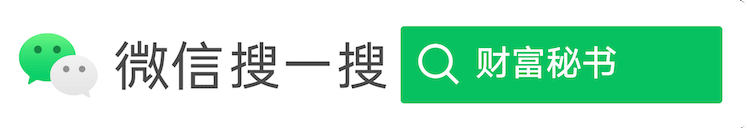
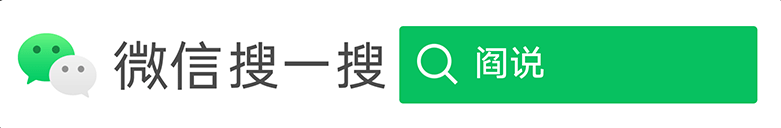
update image

diff --git a/src/comps/sider/Sider.tsx b/src/comps/sider/Sider.tsx
@@ -37,9 +37,10 @@ function SiderComp(props: Props) {
           <div style={{ lineHeight: 1.5, textAlign: "center" }}>
             微信扫一扫
             <br />
-            关注公众号
-            <br />
-            财富秘书
+            关注&nbsp;
+            <span style={{ fontWeight: 600, color: "#6a9fb5", fontSize: 16 }}>
+              阎说
+            </span>
           </div>
         </div>
       </Menu>

diff --git a/src/comps/header/Header.module.scss b/src/comps/header/Header.module.scss
@@ -12,7 +12,7 @@
   justify-content: flex-start;
 
   .cfms {
-    height: 64px;
+    height: 60px;
   }
 
   a.left {
